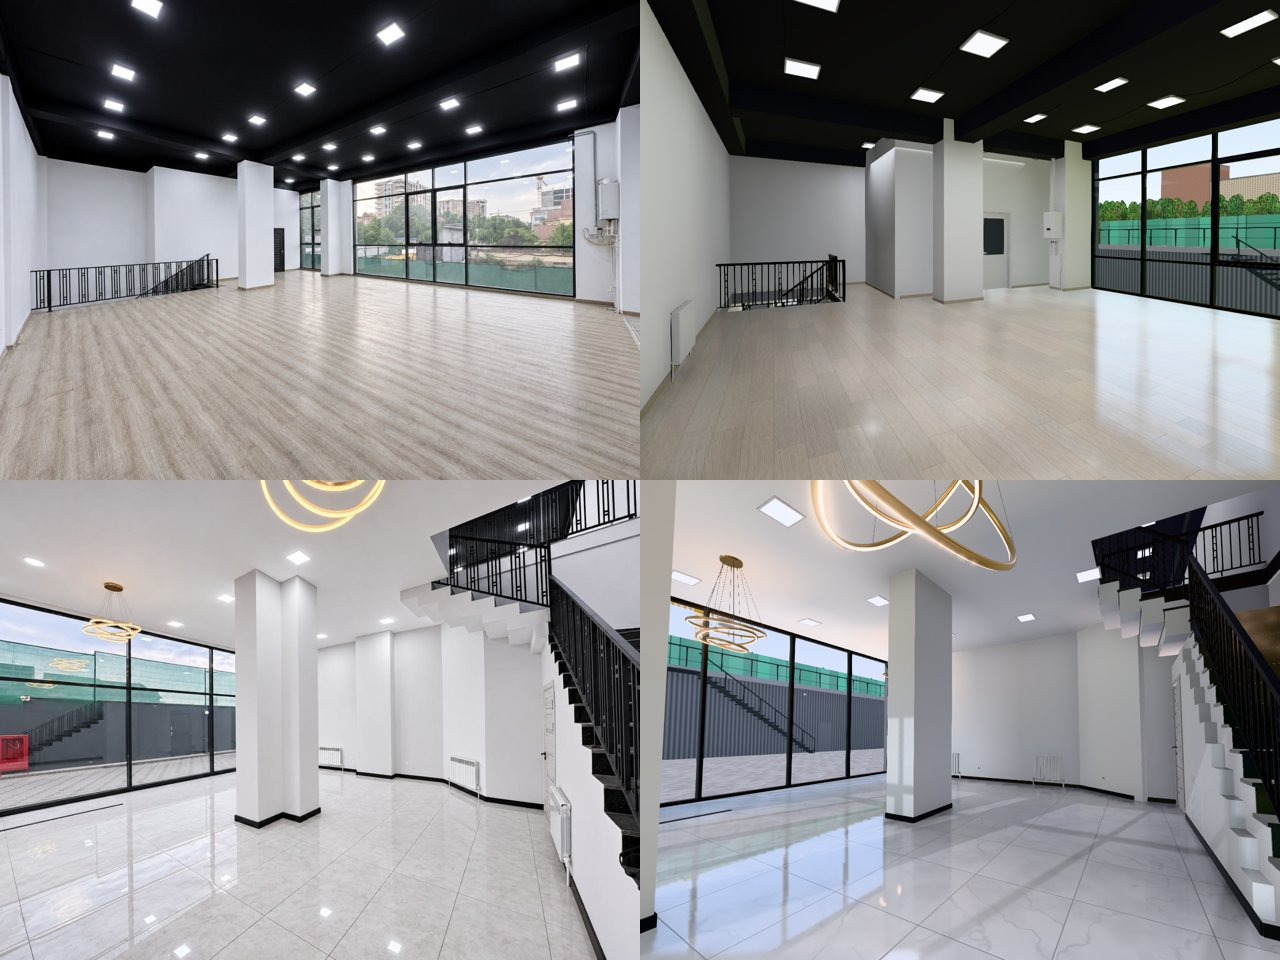
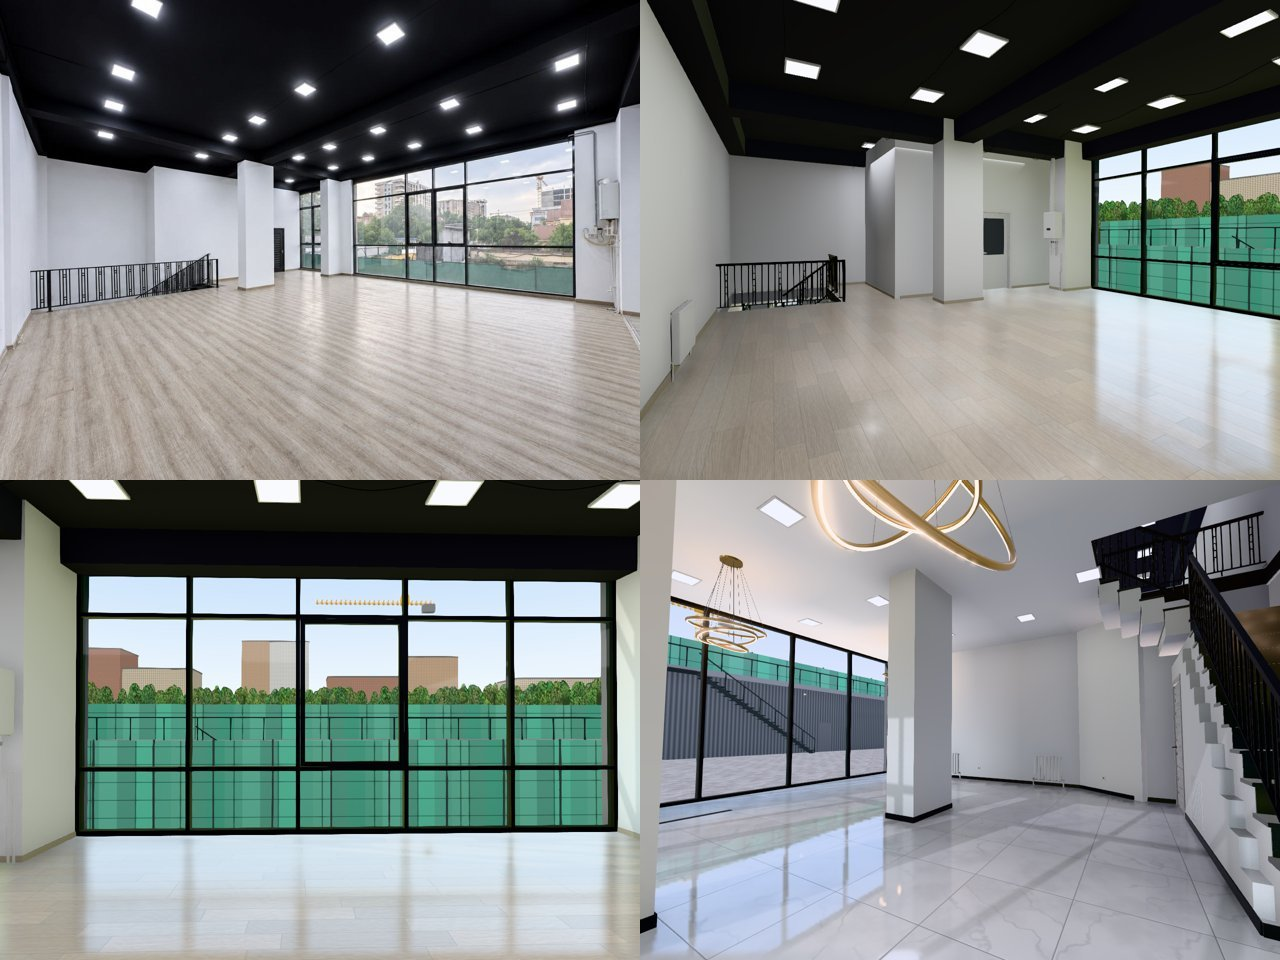
2-qavatdan qaraganda kulrang devor o'rniga yashil to'r
Claude-Session: https://claude.ai/code/session_01P9pQftsdzTnGheRvDppN9w

Changed region(s): [[0.0, 0.5, 0.5, 1.0], [0.8438, 0.25, 1.0, 0.3438]]

diff --git a/web/src/surround.js b/web/src/surround.js
@@ -427,6 +427,17 @@ export function buildSurroundings( envTex ) {
 	trees.position.set( 8, 11 - 0.5, 0 );
 	grp.add( trees );
 
+	// 2-qavatdan qaraganda (rasm 02) devor ham yashil to'r bilan qoplangan ko'rinadi — bu qoplama faqat
+	// kamera 2-qavatda bo'lganda yoqiladi (1-qavat rasmlarida devor, zina va eshiklar ko'rinadi)
+	const netGeo = shade( worldUV( box( - 3, 34, 0.5, 4.75, NZ + 1.3, NZ + 1.38 ) ) );
+	const f2net = new THREE.Mesh( netGeo, M.netting );
+	f2net.name = 'floor2-netting';
+	f2net.visible = false;
+	grp.add( f2net );
+	const postGeo = mergeGeometries( Array.from( { length: 15 }, ( _, i ) => shade( worldUV( box( - 3 + i * 2.5, - 3 + i * 2.5 + 0.06, 0.5, 4.8, NZ + 1.38, NZ + 1.44 ) ) ) ) );
+	f2net.add( new THREE.Mesh( postGeo, M.dark ) );
+	grp.userData.floor2Net = f2net;
+
 	return grp;
 
 }

diff --git a/web/src/main.js b/web/src/main.js
@@ -699,6 +699,7 @@ async function main() {
 		hemi.visible = outside;
 		studio.visible = outside && ! rebaking;
 		surround.visible = ! outside;
+		surround.userData.floor2Net.visible = cp.y > Y2 - 0.2; // 2-qavatdan: devor o'rniga yashil to'r (rasm 02)
 		scene.background = studio.visible ? studioColor : sky.bg;
 		scene.backgroundIntensity = bgIntensity;
 		reflection.enabled = ! LITE && cp.y < H;

diff --git a/docs/TZ-2-qavat.md b/docs/TZ-2-qavat.md
@@ -127,3 +127,4 @@
 - Ortida past daraxtlar qatori (shimoliy sektor, ~115 m), daraxtlar ustidan ochiq osmon (HDRI o'rmoni o'rniga, faqat shimol tomonda).
 - Uzoqda (150…260 m) bej, g'isht va oq rangli 8…18 qavatli uylar va minorali kran.
 - Kamera uzoqlik chegarasi 600 m (osmon foni ko'rinishi uchun).
+- 2-qavatdan qaraganda qo'shni binoning kulrang devori ham yashil to'r bilan qoplangan (faqat kamera 2-qavatda bo'lganda; 1-qavatdan devor, zina va eshiklar ko'rinadi).
